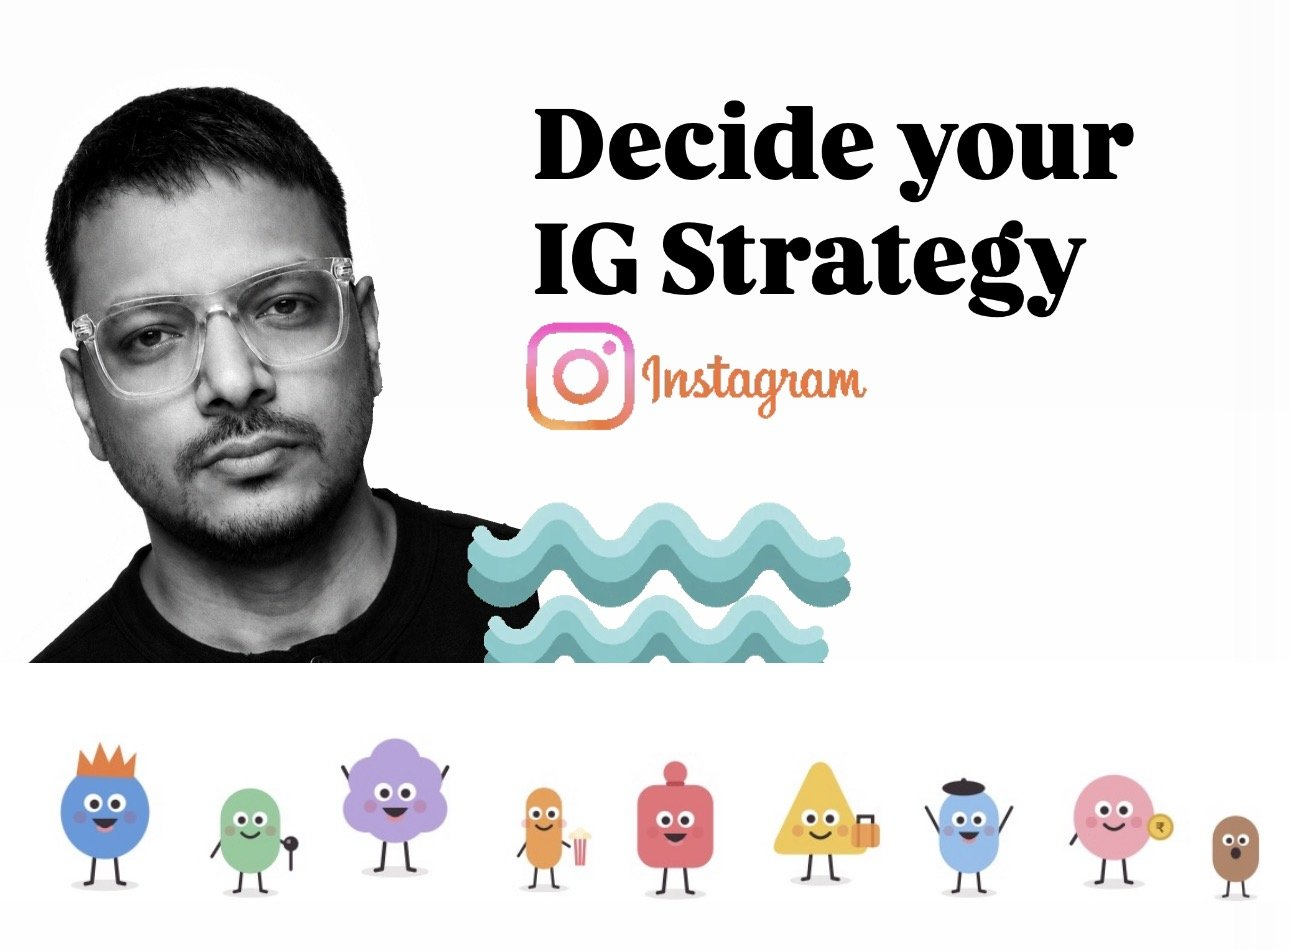
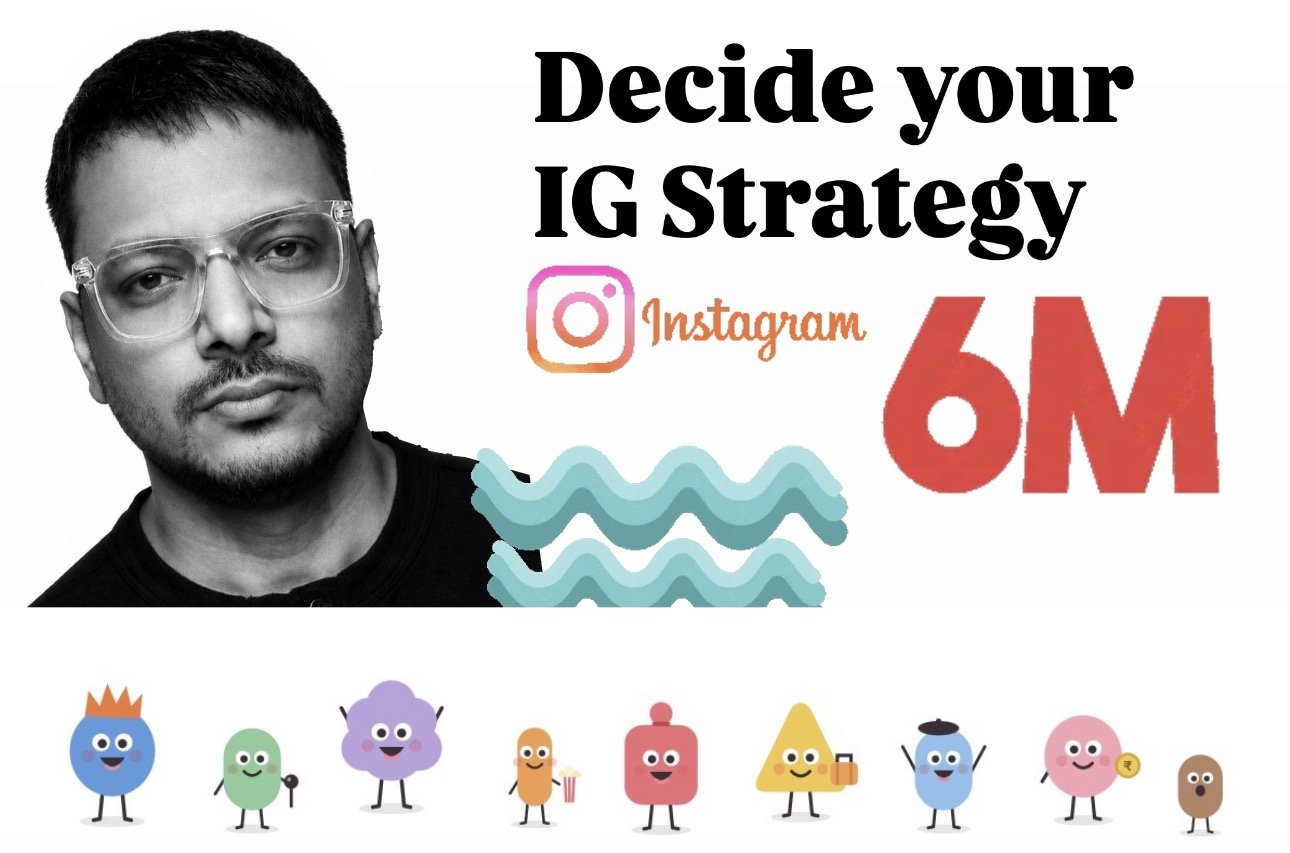
Replace hero image with the updated '6M' version
Cropped to remove a stray screenshot strip and blank space above the
artwork.

Claude-Session: https://claude.ai/code/session_01299uMwX4zhQwsD7ugDZ6Z3

diff --git a/index.html b/index.html
@@ -481,7 +481,7 @@ footer{font-size:.85rem;color:var(--muted);max-width:70ch}
     <h1>One Instagram page can’t serve <span>every audience</span></h1>
     <p class="lede">A single brand page for everyone ends up like a family WhatsApp group: everyone's in it, hardly anything is meant for them, so they mute it. This playbook walks you through six decisions to turn that page into a small Instagram network, with each page built for one audience that actually wants to follow it.</p>
     <div class="btns"><a class="btn solid" href="#quiz">Take the 2-minute quiz</a><a class="btn" href="#why">Read the playbook</a></div>
-    <img class="heroimg" src="images/hero.jpg" width="1290" height="950" alt="Author portrait beside the title “Decide your IG Strategy”, with the Instagram logo and the playbook’s characters">
+    <img class="heroimg" src="images/hero.jpg" width="1290" height="853" alt="Author portrait beside the title “Decide your IG Strategy”, with the Instagram logo, a large “6M” and the playbook’s characters">
   </div>
   <div class="stage">
     <canvas id="doodles" aria-hidden="true"></canvas>
@@ -863,7 +863,7 @@ footer{font-size:.85rem;color:var(--muted);max-width:70ch}
     <h1>Why one Instagram page isn't always <span>enough</span></h1>
     <p class="lede">When one brand page tries to talk to everyone, most followers see posts that aren't for them, so they stop paying attention. Some brands fix this by running a few pages, each made for one kind of follower. This short guide helps you decide whether that makes sense for you.</p>
     <div class="btns"><a class="btn solid" href="#s-quiz">Take the 1-minute quiz</a><a class="btn" href="#s-idea">Explain it simply</a></div>
-    <img class="heroimg" src="images/hero.jpg" width="1290" height="950" alt="Author portrait beside the title “Decide your IG Strategy”, with the Instagram logo and the playbook’s characters">
+    <img class="heroimg" src="images/hero.jpg" width="1290" height="853" alt="Author portrait beside the title “Decide your IG Strategy”, with the Instagram logo, a large “6M” and the playbook’s characters">
   </div>
   <div class="stage">
     <div class="say s1">Why is this in my feed?</div>
